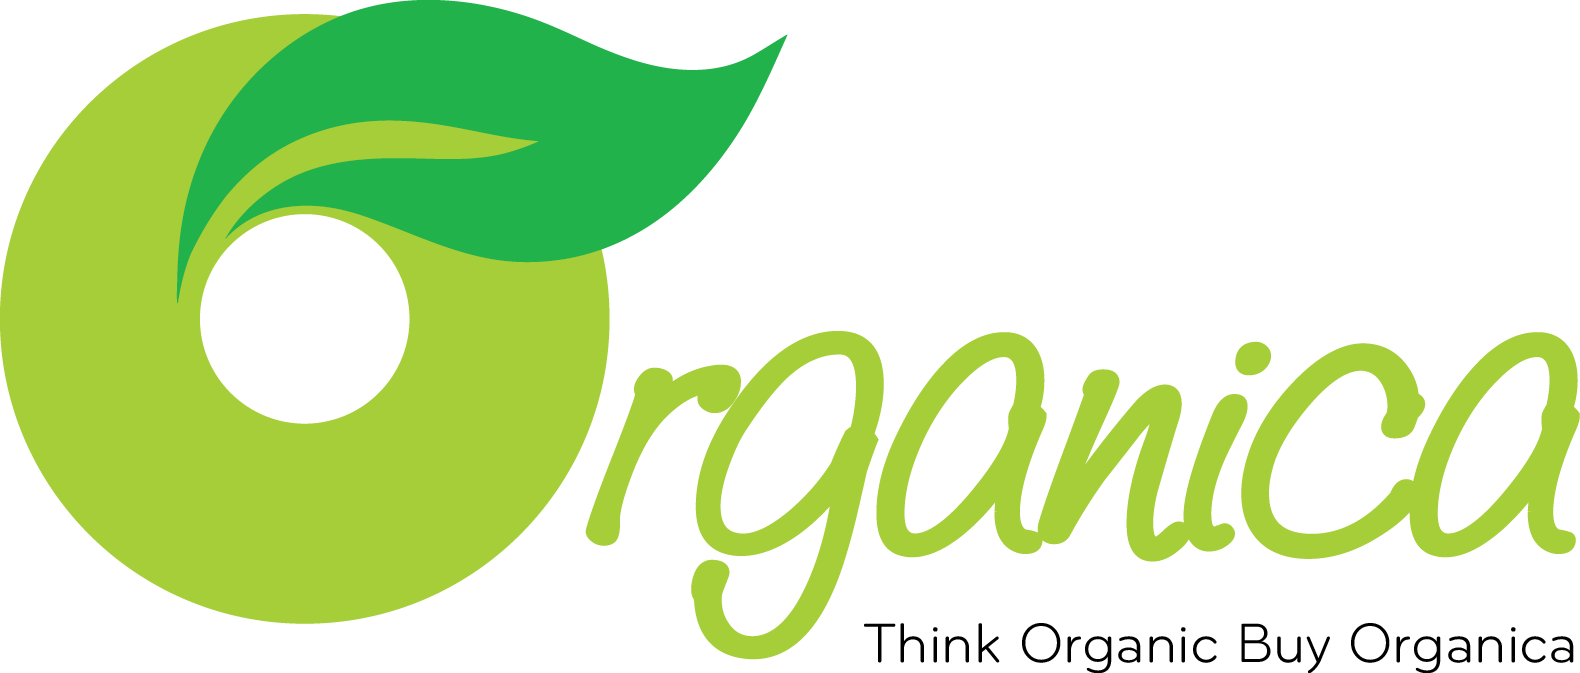
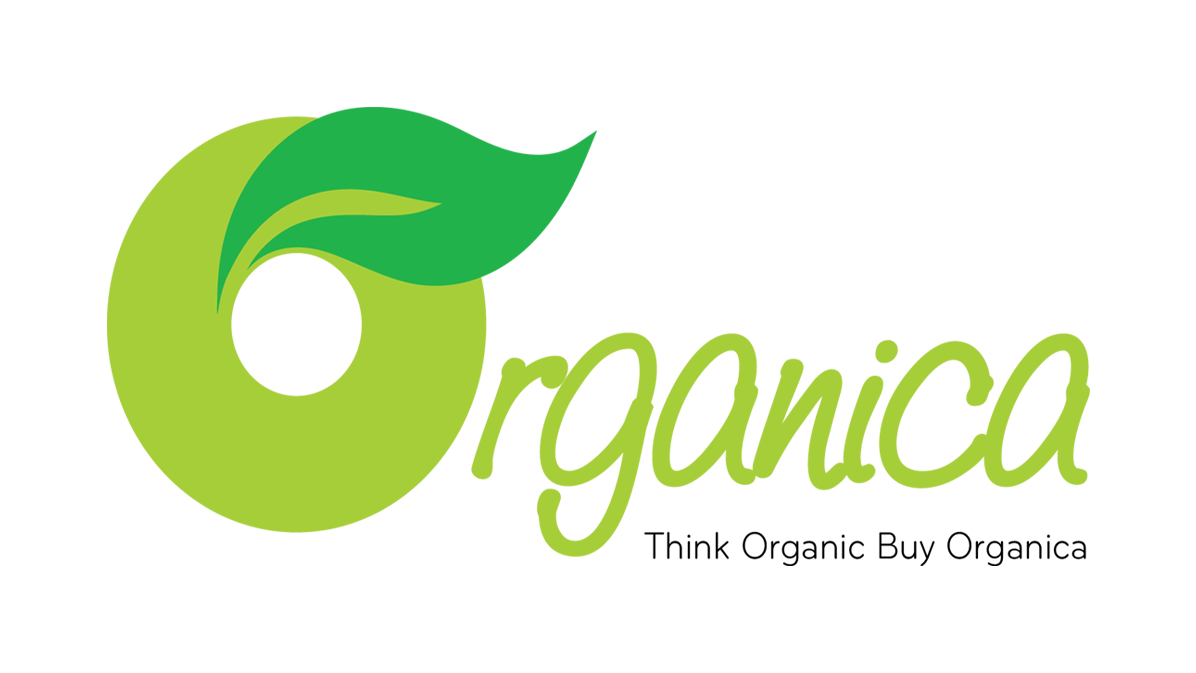
brand

diff --git a/resources/views/FE/home/b7_brands.blade.php b/resources/views/FE/home/b7_brands.blade.php
@@ -1,12 +1,13 @@
 <!--Block 07: Brands-->
 <div class="brand-slide sm-margin-top-100px background-fafafa xs-margin-top-80px xs-margin-bottom-80px">
     <div class="container">
-        <ul class="biolife-carousel nav-center-bold nav-none-on-mobile" data-slick='{"rows":1,"arrows":true,"dots":false,"infinite":true,"autoplaySpeed":500, "autoplay": true, "slidesMargin":30,"slidesToShow":4, "responsive":[{"breakpoint":1200, "settings":{ "slidesToShow": 4}},{"breakpoint":992, "settings":{ "slidesToShow": 3}},{"breakpoint":768, "settings":{ "slidesToShow": 1}}]}'>
+        <ul  class="biolife-carousel nav-center-bold nav-none-on-mobile" data-slick='{"rows":1,"arrows":true,"dots":false,"infinite":true,"autoplaySpeed":500, "autoplay": true, "slidesMargin":30,"slidesToShow":4, "responsive":[{"breakpoint":1200, "settings":{ "slidesToShow": 4}},{"breakpoint":992, "settings":{ "slidesToShow": 3}},{"breakpoint":768, "settings":{ "slidesToShow": 1}}]}'>
                 @foreach ($tabbrand as $br)
             <li>
                 <div class="biolife-brd-container">
                     <a href="#" class="link">
-                    <figure><img src="{{asset('hinhthuonghieu')}}/{{$br->img_thuonghieu}}" width="214" height="163" alt=""></figure>
+                    <figure><img style="-webkit-filter: grayscale(100%); /* Safari 6.0 - 9.0 */
+                        filter: grayscale(100%);" src="{{asset('hinhthuonghieu')}}/{{$br->img_thuonghieu}}" width="214" height="163" alt=""></figure>
                     </a>
                 </div>
             </li>

diff --git a/app/Http/Controllers/ThuongHieuController.php b/app/Http/Controllers/ThuongHieuController.php
@@ -84,7 +84,7 @@ class ThuongHieuController extends Controller
      * @param  int  $id
      * @return \Illuminate\Http\Response
      */
-    public function update(RequestThuongHieu $request, $id)
+    public function update(Request $request, $id)
     {
         $th = ThuongHieu ::find($id);
         $fileimg = $request->file('img_thuonghieu'); // tạo biến lấy dữ liệu từ input
@@ -92,7 +92,7 @@ class ThuongHieuController extends Controller
             $fileimg = $request->file('img_thuonghieu'); // tạo biến lấy dữ liệu từ input
             $filename = $fileimg->getClientOriginalName(); // lấy tên theo tên gốc của file
             $pathimg = $fileimg->move(public_path().'/hinhthuonghieu/', $filename); //chỗ chứa file
-            $th->icon_loaisp = $filename;
+            $th->img_thuonghieu = $filename;
             $th->slug_thuonghieu =\Str::slug($request->name_thuonghieu);
             $th->name_thuonghieu = $request->get('name_thuonghieu');
             $th->sdt_thuonghieu = $request->get('sdt_thuonghieu');

diff --git a/resources/views/admin/thuonghieu/edit.blade.php b/resources/views/admin/thuonghieu/edit.blade.php
@@ -1,5 +1,5 @@
 @extends('admin.layoutadmin')
-@section('pagetitle', "SỬA THUƠNG HIỆU")
+@section('pagetitle', "SỬA THƯƠNG HIỆU")
 @section('main')
 <div class="main-content" style="min-height: 659px;">
     <section class="section">
@@ -66,7 +66,7 @@
                       </div>
 
                       <div class="col-md-10">
-                        <input type="file" class="form-control" name="icon_loaisp">
+                        <input type="file" class="form-control" name="img_thuonghieu">
                       </div>
                     </div>
 

diff --git a/README.md b/README.md
@@ -1,61 +1,7 @@
-<p align="center"><a href="https://laravel.com" target="_blank"><img src="https://raw.githubusercontent.com/laravel/art/master/logo-lockup/5%20SVG/2%20CMYK/1%20Full%20Color/laravel-logolockup-cmyk-red.svg" width="400"></a></p>
-
-<p align="center">
-<a href="https://travis-ci.org/laravel/framework"><img src="https://travis-ci.org/laravel/framework.svg" alt="Build Status"></a>
-<a href="https://packagist.org/packages/laravel/framework"><img src="https://poser.pugx.org/laravel/framework/d/total.svg" alt="Total Downloads"></a>
-<a href="https://packagist.org/packages/laravel/framework"><img src="https://poser.pugx.org/laravel/framework/v/stable.svg" alt="Latest Stable Version"></a>
-<a href="https://packagist.org/packages/laravel/framework"><img src="https://poser.pugx.org/laravel/framework/license.svg" alt="License"></a>
-</p>
-
-## About Laravel
-
-Laravel is a web application framework with expressive, elegant syntax. We believe development must be an enjoyable and creative experience to be truly fulfilling. Laravel takes the pain out of development by easing common tasks used in many web projects, such as:
-
-- [Simple, fast routing engine](https://laravel.com/docs/routing).
-- [Powerful dependency injection container](https://laravel.com/docs/container).
-- Multiple back-ends for [session](https://laravel.com/docs/session) and [cache](https://laravel.com/docs/cache) storage.
-- Expressive, intuitive [database ORM](https://laravel.com/docs/eloquent).
-- Database agnostic [schema migrations](https://laravel.com/docs/migrations).
-- [Robust background job processing](https://laravel.com/docs/queues).
-- [Real-time event broadcasting](https://laravel.com/docs/broadcasting).
-
-Laravel is accessible, powerful, and provides tools required for large, robust applications.
-
-## Learning Laravel
-
-Laravel has the most extensive and thorough [documentation](https://laravel.com/docs) and video tutorial library of all modern web application frameworks, making it a breeze to get started with the framework.
-
-If you don't feel like reading, [Laracasts](https://laracasts.com) can help. Laracasts contains over 1500 video tutorials on a range of topics including Laravel, modern PHP, unit testing, and JavaScript. Boost your skills by digging into our comprehensive video library.
-
-## Laravel Sponsors
-
-We would like to extend our thanks to the following sponsors for funding Laravel development. If you are interested in becoming a sponsor, please visit the Laravel [Patreon page](https://patreon.com/taylorotwell).
-
-### Premium Partners
-
-- **[Vehikl](https://vehikl.com/)**
-- **[Tighten Co.](https://tighten.co)**
-- **[Kirschbaum Development Group](https://kirschbaumdevelopment.com)**
-- **[64 Robots](https://64robots.com)**
-- **[Cubet Techno Labs](https://cubettech.com)**
-- **[Cyber-Duck](https://cyber-duck.co.uk)**
-- **[Many](https://www.many.co.uk)**
-- **[Webdock, Fast VPS Hosting](https://www.webdock.io/en)**
-- **[DevSquad](https://devsquad.com)**
-- **[OP.GG](https://op.gg)**
-
-## Contributing
-
-Thank you for considering contributing to the Laravel framework! The contribution guide can be found in the [Laravel documentation](https://laravel.com/docs/contributions).
-
-## Code of Conduct
-
-In order to ensure that the Laravel community is welcoming to all, please review and abide by the [Code of Conduct](https://laravel.com/docs/contributions#code-of-conduct).
-
-## Security Vulnerabilities
-
-If you discover a security vulnerability within Laravel, please send an e-mail to Taylor Otwell via [taylor@laravel.com](mailto:taylor@laravel.com). All security vulnerabilities will be promptly addressed.
-
-## License
-
-The Laravel framework is open-sourced software licensed under the [MIT license](https://opensource.org/licenses/MIT).
+------------------ Các bước cài đặt source -----------------------
+B1 : Tải source về bằng lệnh git " git clone https://github.com/minhtran2401/DoAnTotNghiep.git "
+B2 : Giải nén bỏ source vào thư mục xampp
+B3 : Tạo database mới và kết nối với dự án ở .env
+B4 : Chạy "composer install" & "composer update"
+B5 : Chạy php "artisan migrate:refresh" để tạo bảng trong database
+B6 : Import database vào.
